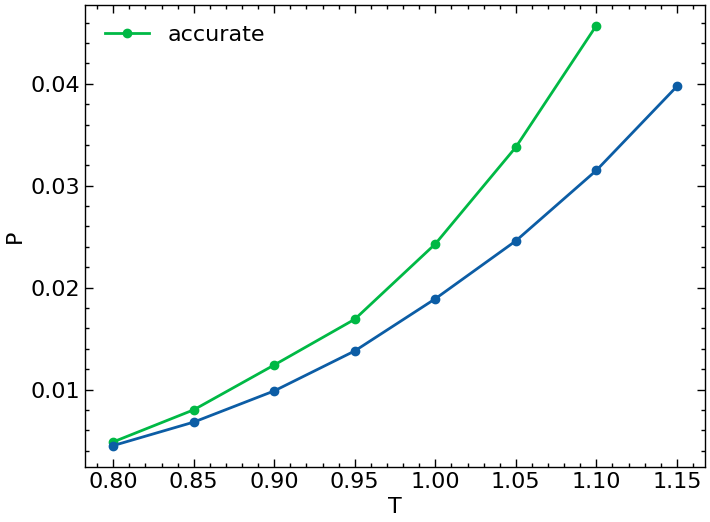
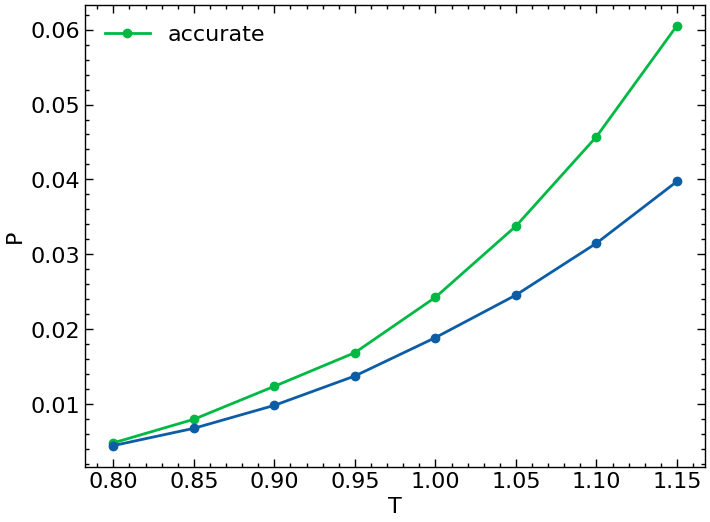
added one point

diff --git a/2_ChemicalPotential/README.md b/2_ChemicalPotential/README.md
@@ -49,6 +49,8 @@ $$ \dfrac{dP}{dT} = \dfrac{\Delta h}{T \Delta v}$$
 | 1.0750 | 0.04201| 1.51754| -2.89130| 19.75839| 1.98843| 0.24885 |
 | 1.0875 | 0.04571| 1.53745| -2.80766| 17.86866| 1.94935| 0.26785 |
 | 1.1000 | 0.04898| 1.55591| -2.72062| 16.68622| 1.94083| 0.28008 |
+|1.1500	 | 0.06457|	1.63981| -2.36658| 12.04727| 1.78684| 0.34703 |
+
 
 | T      | P      | v_liq  | h_liq   | v_vap    | h_vap  | f(P, T) |
 |--------|--------|--------|---------|----------|--------|---------|
